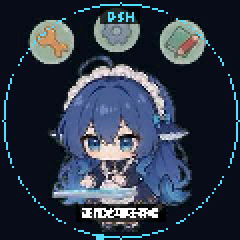
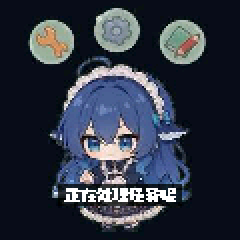
ui: drop ring and mode chip, one large caption line

diff --git a/tools/build_assets.py b/tools/build_assets.py
@@ -12,14 +12,14 @@ import numpy as np
 from PIL import Image, ImageDraw, ImageFont
 
 ROOT = os.path.dirname(os.path.dirname(os.path.abspath(__file__)))
-ASSETS = os.environ.get("DSH_PET_ASSETS", os.path.expanduser(r"~\.dsh\profiles\desktop\node_modules\dsh-pet\assets"))
+ASSETS = r"C:\Users\satan\.dsh\profiles\desktop\node_modules\dsh-pet\assets"
 WEBM = os.path.join(ASSETS, "webm")
 FONT = os.path.join(ASSETS, "fonts", "上首软糖体.ttf")
-FRAMES = os.path.join(ROOT, "work", "frames")
-OUT = os.path.join(ROOT, "firmware", "data")
+FRAMES = os.environ.get("PET_FRAMES", os.path.join(ROOT, "work", "frames"))
+OUT = os.environ.get("PET_OUT", os.path.join(ROOT, "firmware", "data"))
 FPS = 10
-CROP = (146, 2, 340, 340)
-SIZE = 240
+CROP = tuple(int(v) for v in os.environ.get("PET_CROP", "146,2,340,340").split(","))
+SIZE = int(os.environ.get("PET_SIZE", "240"))
 BG = (10, 14, 26)
 
 # name, ascii label, target seconds, loop, role
@@ -63,7 +63,7 @@ WORK_TEXTS = [
     ["这一步好像没跑通呢", "刚才的操作遇到点问题哦", "这里卡了一下，再等等你呢"],
 ]
 
-TEXT_MAX_W = 160
+TEXT_MAX_W = int(185 * SIZE / 240)
 ID_ANIM = 100
 ID_MODE = 200      # 200 AUTO, 201 MANUAL, 202 SLEEP, 203 DSH
 ID_PHRASE = 300
@@ -134,7 +134,7 @@ def encode_one(item):
 
 def render_text(text, max_w=TEXT_MAX_W):
     """Render one string to a trimmed 1bpp bitmap (MSB first, row padded to bytes)."""
-    for size in (13, 12, 11, 10, 9):
+    for size in (18, 17, 16, 15, 14, 13, 12, 11, 10, 9):
         font = ImageFont.truetype(FONT, size)
         img = Image.new("L", (max_w + 60, 34), 0)
         ImageDraw.Draw(img).text((4, 4), text, font=font, fill=255)
@@ -243,4 +243,6 @@ def main():
 
 if __name__ == "__main__":
     main()
+
+
 
